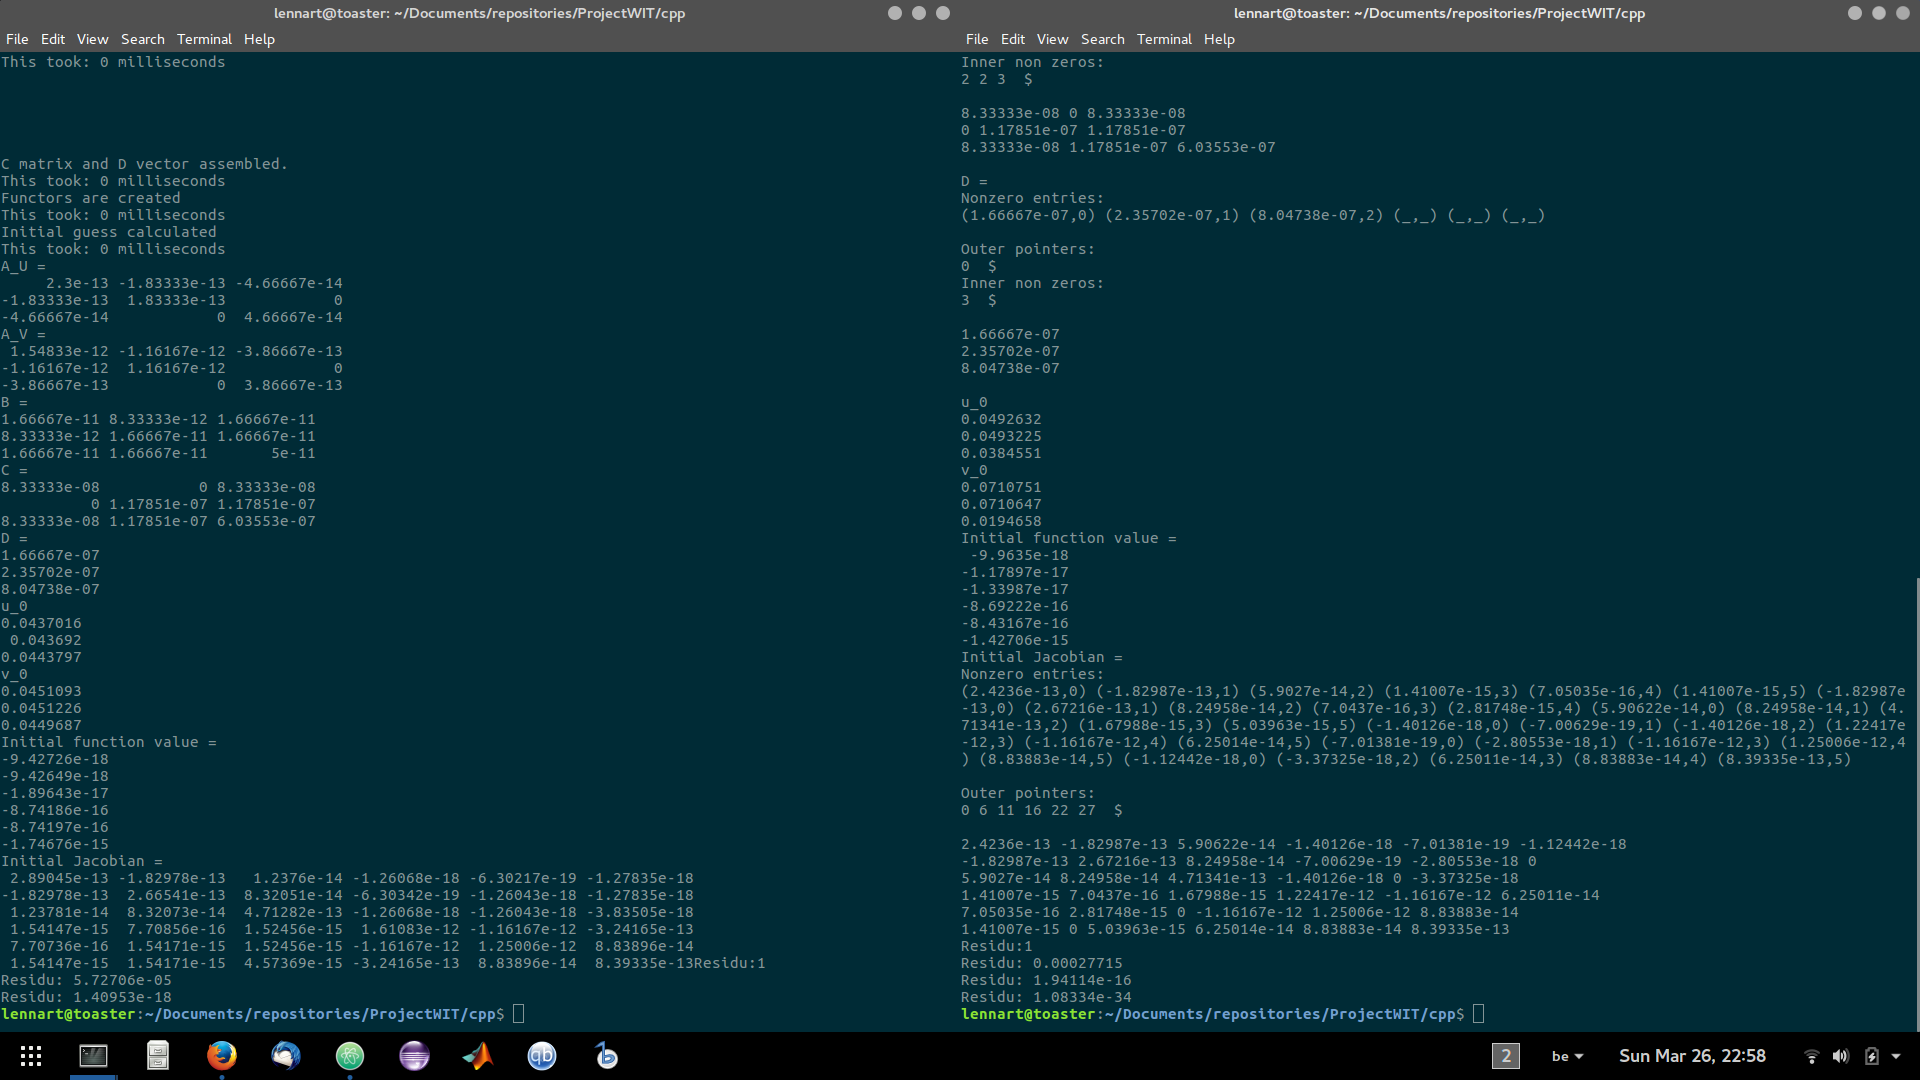
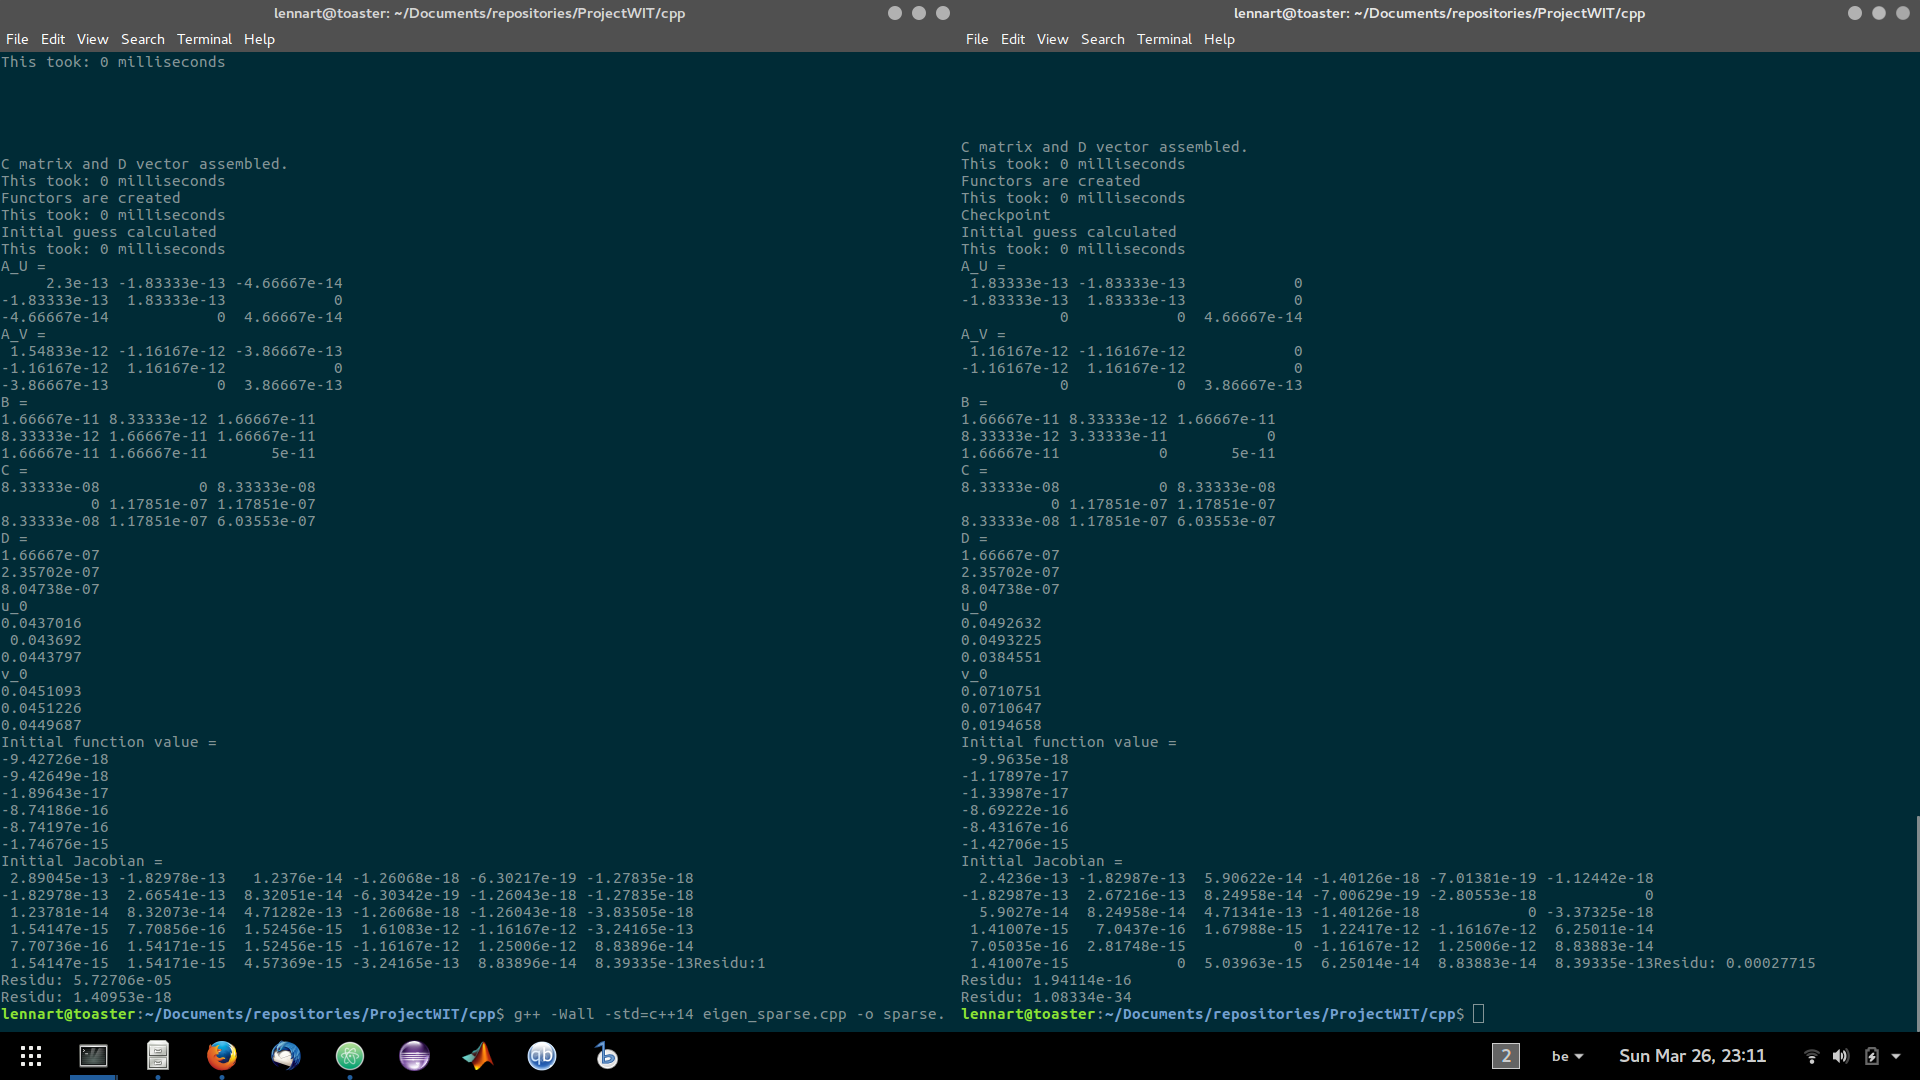
better formatted dense vs sparse

Changed region(s): [[0.5, 0.0917, 1.0, 0.9167], [0.3125, 0.9167, 0.4375, 0.9472], [0.5312, 0.0306, 0.5625, 0.0611]]

diff --git a/cpp/eigen_sparse.cpp b/cpp/eigen_sparse.cpp
@@ -273,15 +273,15 @@ int main(int argc, char *argv[])
 
   // #ifdef DEBUG
   std::cout << "A_U =" << std::endl;
-  std::cout << A_U << std::endl;
+  std::cout << MatrixXd(A_U) << std::endl;
   std::cout << "A_V =" << std::endl;
-  std::cout << A_V << std::endl;
+  std::cout << MatrixXd(A_V) << std::endl;
   std::cout << "B =" << std::endl;
-  std::cout << B << std::endl;
+  std::cout << MatrixXd(B) << std::endl;
   std::cout << "C =" << std::endl;
-  std::cout << C << std::endl;
+  std::cout << MatrixXd(C) << std::endl;
   std::cout << "D =" << std::endl;
-  std::cout << D << std::endl;
+  std::cout << MatrixXd(D) << std::endl;
   std::cout << "u_0" << std::endl;
   std::cout << u_0 << std::endl;
   std::cout << "v_0" << std::endl;
@@ -289,7 +289,7 @@ int main(int argc, char *argv[])
   std::cout << "Initial function value = " << std::endl;
   std::cout << F_funct(guess) <<std::endl;
   std::cout << "Initial Jacobian = " << std::endl;
-  std::cout << J_funct(guess);
+  std::cout << MatrixXd(J_funct(guess));
   // #endif
 
   newton_raphson(F_funct,J_funct,guess,pow(10,-17));

diff --git a/cpp/newton_raphson_dense.hpp b/cpp/newton_raphson_dense.hpp
@@ -11,7 +11,6 @@ template<typename U, typename V>void newton_raphson(U & F,V & J,VectorXd& x0,dou
   int maxit = 1000;
   double res = tol+1;
   VectorXd x1;
-  std::cout << "Residu:" << res << std::endl;
   while(res > tol && it <maxit)
   {
     x1 = x0- J(x0).colPivHouseholderQr().solve(F(x0));

diff --git a/cpp/newton_raphson_sparse.hpp b/cpp/newton_raphson_sparse.hpp
@@ -13,7 +13,6 @@ void newton_raphson(U& F,V& J,VectorXd& x0,double tol)
   int maxit = 1000;
   double res = tol+1;
   VectorXd x1,step;
-  std::cout << "Residu:" << res << std::endl;
   SparseLU<SpMat> solver;
   while(res > tol && it <maxit)
   {
